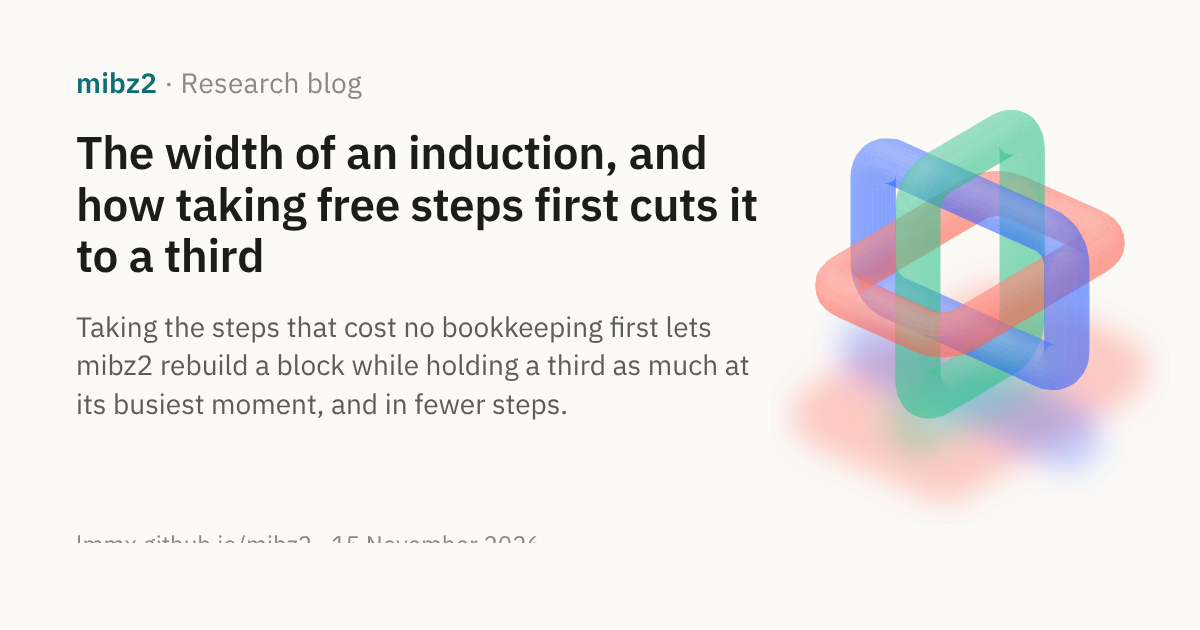
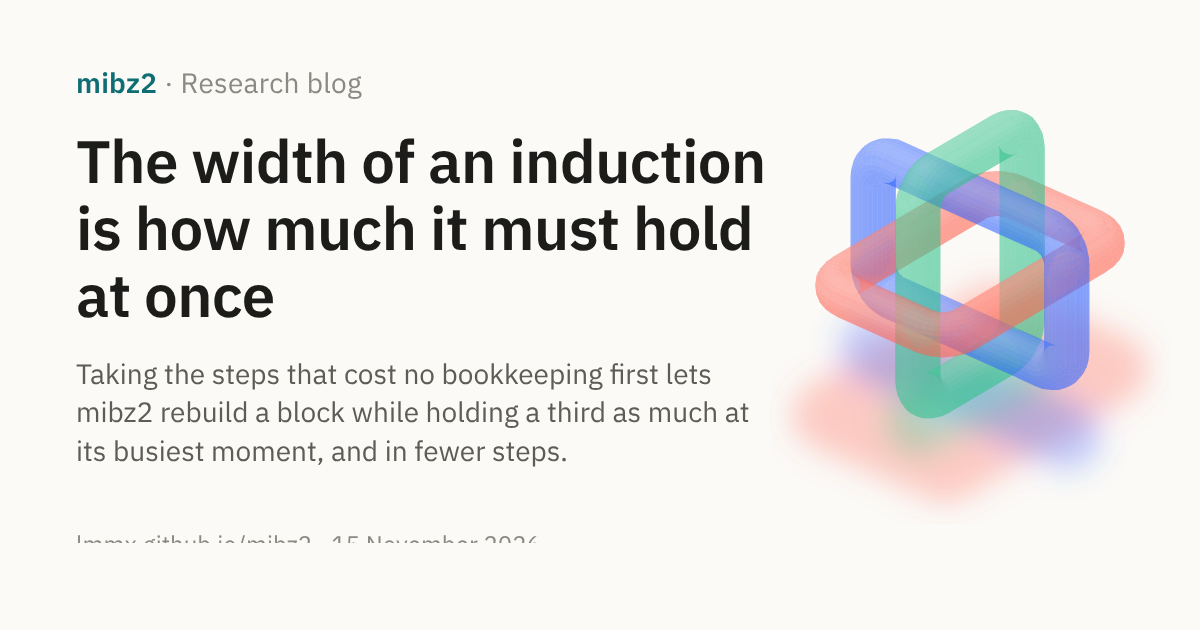
Blog (width): retitle 'The width of an induction is how much it must hold at once'

Changed region(s): [[0.0617, 0.2111, 0.6475, 0.5429], [0.0617, 0.573, 0.6167, 0.754]]

diff --git a/docs/site/blog/index.md b/docs/site/blog/index.md
@@ -8,7 +8,7 @@ What mibz2's experiments are finding, and where they go next. The evidence behin
 post is in the [journals](../background/journals.md) and the pull requests they link.
 
 <div class="post-list">
-<a class="post-card" href="2026-11-15-induction-width.md"><img src="../assets/social/blog-2026-11-15-induction-width.png" alt="" loading="lazy"><span class="post-card-text"><span class="post-card-date">15 November 2026 · Research in progress</span><span class="post-card-title">The width of an induction, and how taking free steps first cuts it to a third</span><span class="post-card-dek">Taking the steps that cost no bookkeeping first lets mibz2 rebuild a block while holding a third as much at its busiest moment, and in fewer steps.</span></span></a>
+<a class="post-card" href="2026-11-15-induction-width.md"><img src="../assets/social/blog-2026-11-15-induction-width.png" alt="" loading="lazy"><span class="post-card-text"><span class="post-card-date">15 November 2026 · Research in progress</span><span class="post-card-title">The width of an induction is how much it must hold at once</span><span class="post-card-dek">Taking the steps that cost no bookkeeping first lets mibz2 rebuild a block while holding a third as much at its busiest moment, and in fewer steps.</span></span></a>
 <a class="post-card" href="2026-11-15-bottom-slots.md"><img src="../assets/social/blog-2026-11-15-bottom-slots.png" alt="" loading="lazy"><span class="post-card-text"><span class="post-card-date">15 November 2026 · Research result</span><span class="post-card-title">Removing duplicated interval lengths and text references</span><span class="post-card-dek">mibz2 tracks each run of equal bytes in two orders, and a run's entry in the second shrinks from 20 bytes to 8 by pointing to the first.</span></span></a>
 <a class="post-card" href="2026-11-15-slot-recycling.md"><img src="../assets/social/blog-2026-11-15-slot-recycling.png" alt="" loading="lazy"><span class="post-card-text"><span class="post-card-date">15 November 2026 · Research result</span><span class="post-card-title">Reduce, reuse, recycle: hand-me-down slots for every fragment of text</span><span class="post-card-dek">Each new text fragment takes over the slot its finished neighbour just vacated, so mibz2 touches 30% fewer slots and needs up to 15% less memory.</span></span></a>
 <a class="post-card" href="2026-11-12-rauzy-technical-companion.md"><img src="../assets/social/blog-2026-11-12-rauzy-technical-companion.png" alt="" loading="lazy"><span class="post-card-text"><span class="post-card-date">12 November 2026 · Research in progress</span><span class="post-card-title">Reconstructing text from compact programs</span><span class="post-card-dek">This technical companion traces how compact word programs reconstruct text from the BWT, including the costs and limits of building and expanding them.</span></span></a>

diff --git a/docs/site/blog/2026-11-15-induction-width.md b/docs/site/blog/2026-11-15-induction-width.md
@@ -1,5 +1,5 @@
 ---
-title: "The width of an induction, and how taking free steps first cuts it to a third"
+title: "The width of an induction is how much it must hold at once"
 image: assets/social/blog-2026-11-15-induction-width.png
 description: "Taking the steps that cost no bookkeeping first lets mibz2 rebuild a block while holding a third as much at its busiest moment, and in fewer steps."
 ---
@@ -11,7 +11,7 @@ description: "Taking the steps that cost no bookkeeping first lets mibz2 rebuild
 [mibz2 · Research blog](index.md)
 {: .post-kicker }
 
-# The width of an induction, and how taking free steps first cuts it to a third
+# The width of an induction is how much it must hold at once
 
 Taking the steps that cost no bookkeeping first lets mibz2 rebuild a block while holding a third as much at its busiest moment, and in fewer steps.
 {: .post-dek }
